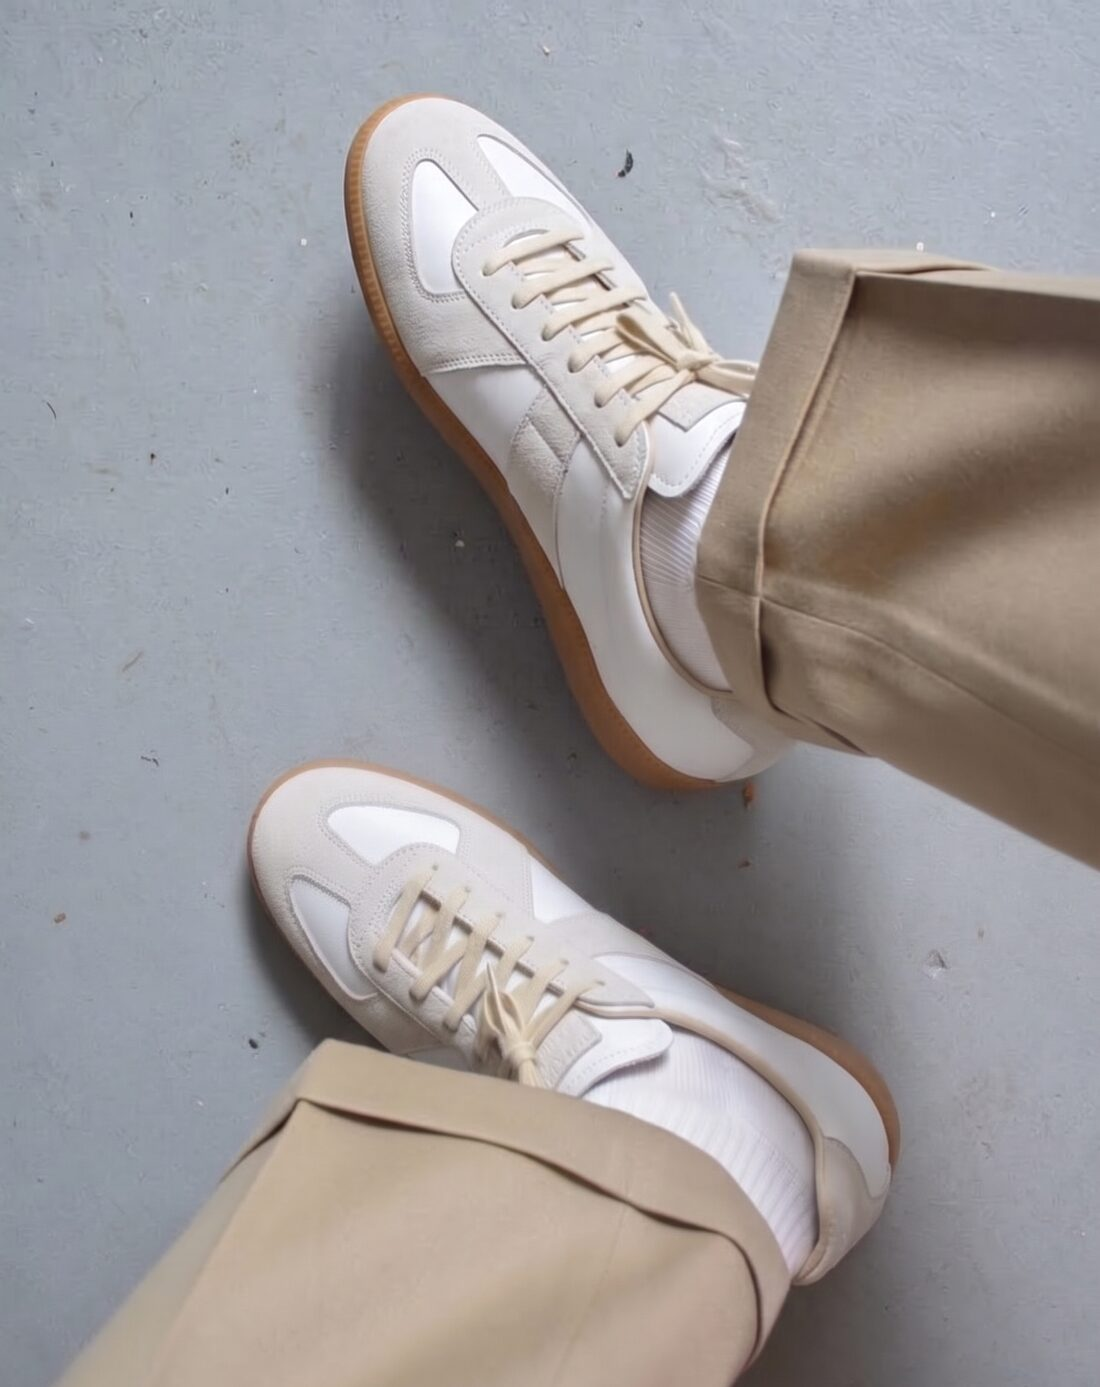
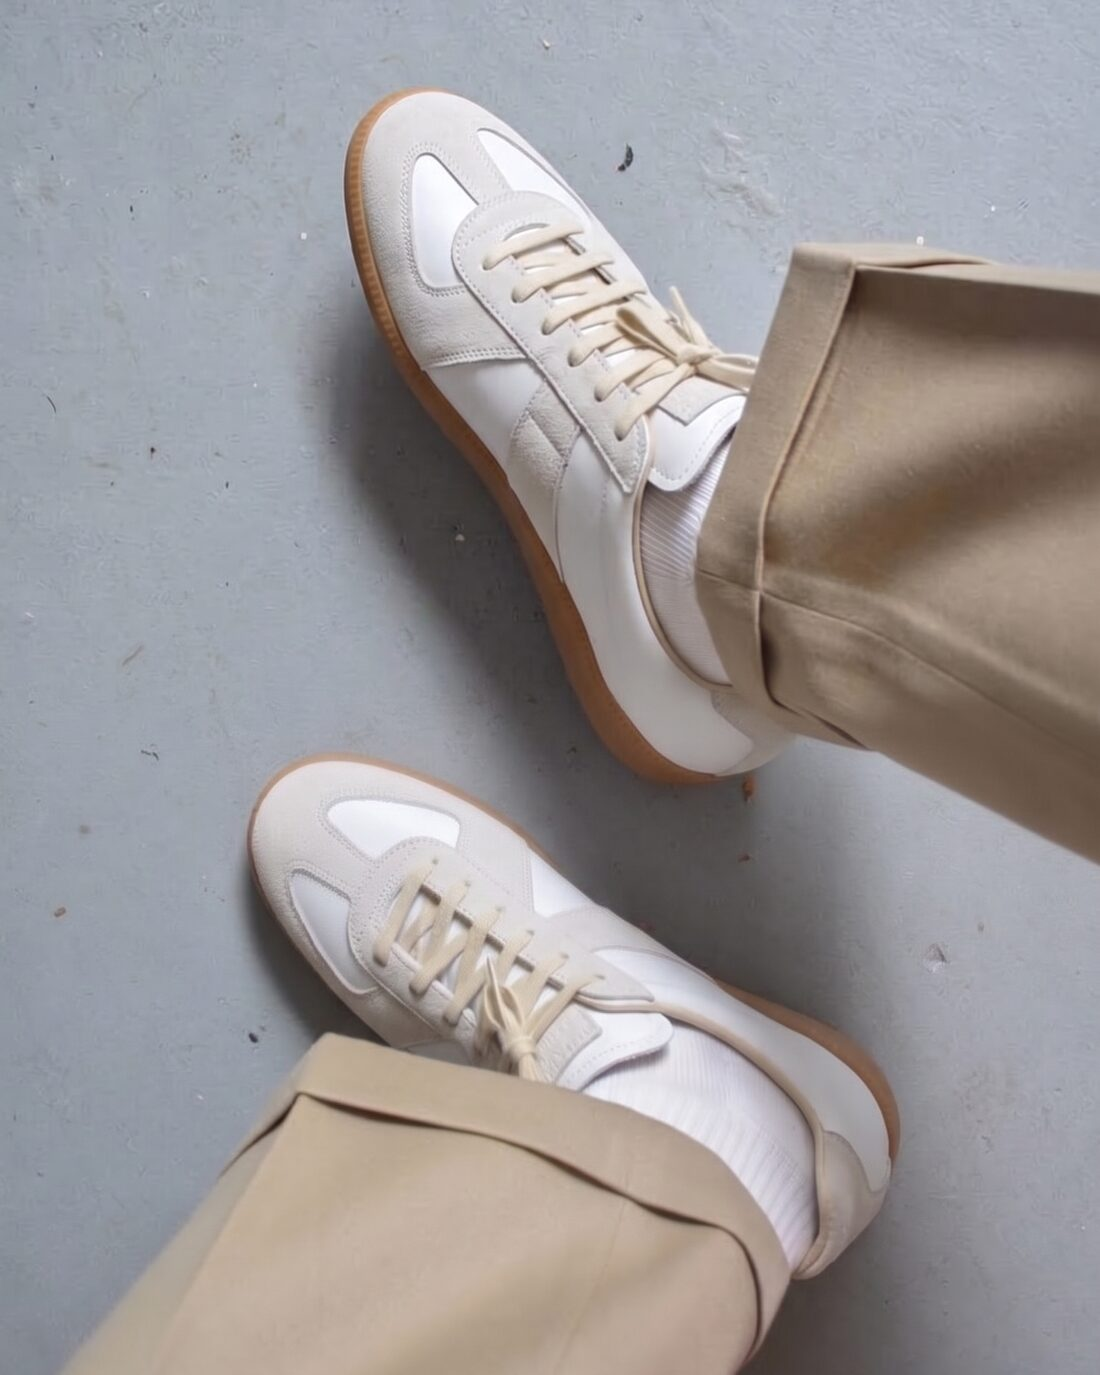
Crop every trend image to 4:5
All four now match the Son of John shot's proportions, so the entries line
up down the page instead of each picture being a different height. Cropped
from the originals rather than squeezed with CSS.

Claude-Session: https://claude.ai/code/session_01HdeK681fBCwEEVKS7qU1CX

diff --git a/src/styles/global.css b/src/styles/global.css
@@ -390,7 +390,14 @@ h1 {
   aspect-ratio: 4 / 5;
   background: var(--wash);
 }
-.tr__img { width: 100%; height: auto; background: var(--wash); }
+/* Every trend picture sits in the same 4:5 frame as the Son of John shot, so
+   the entries line up down the page. */
+.tr__img {
+  width: 100%;
+  aspect-ratio: 4 / 5;
+  object-fit: cover;
+  background: var(--wash);
+}
 
 .tr__ph {
   display: flex;
